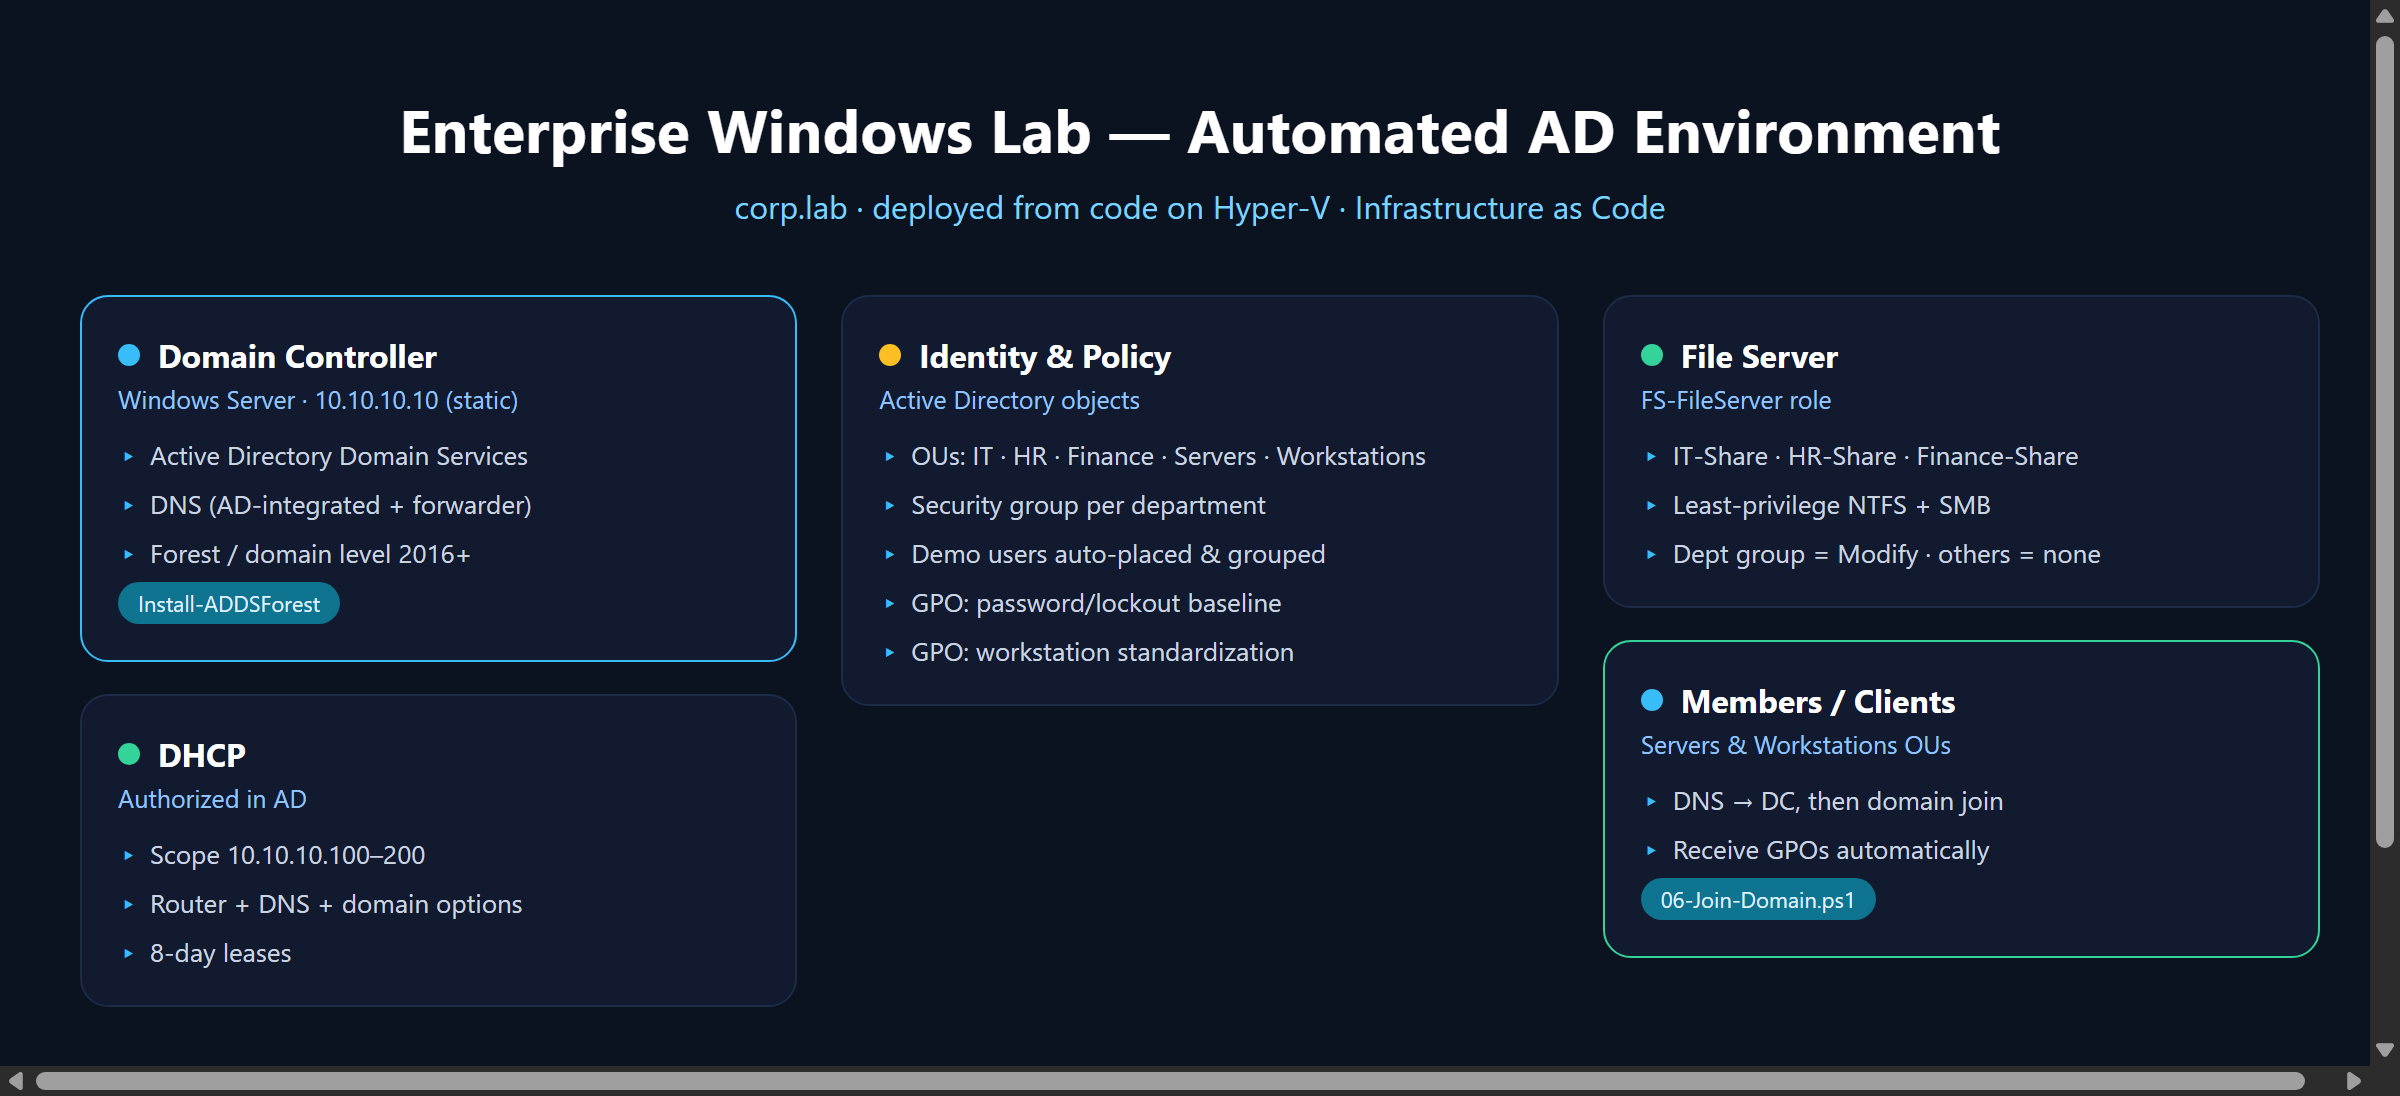
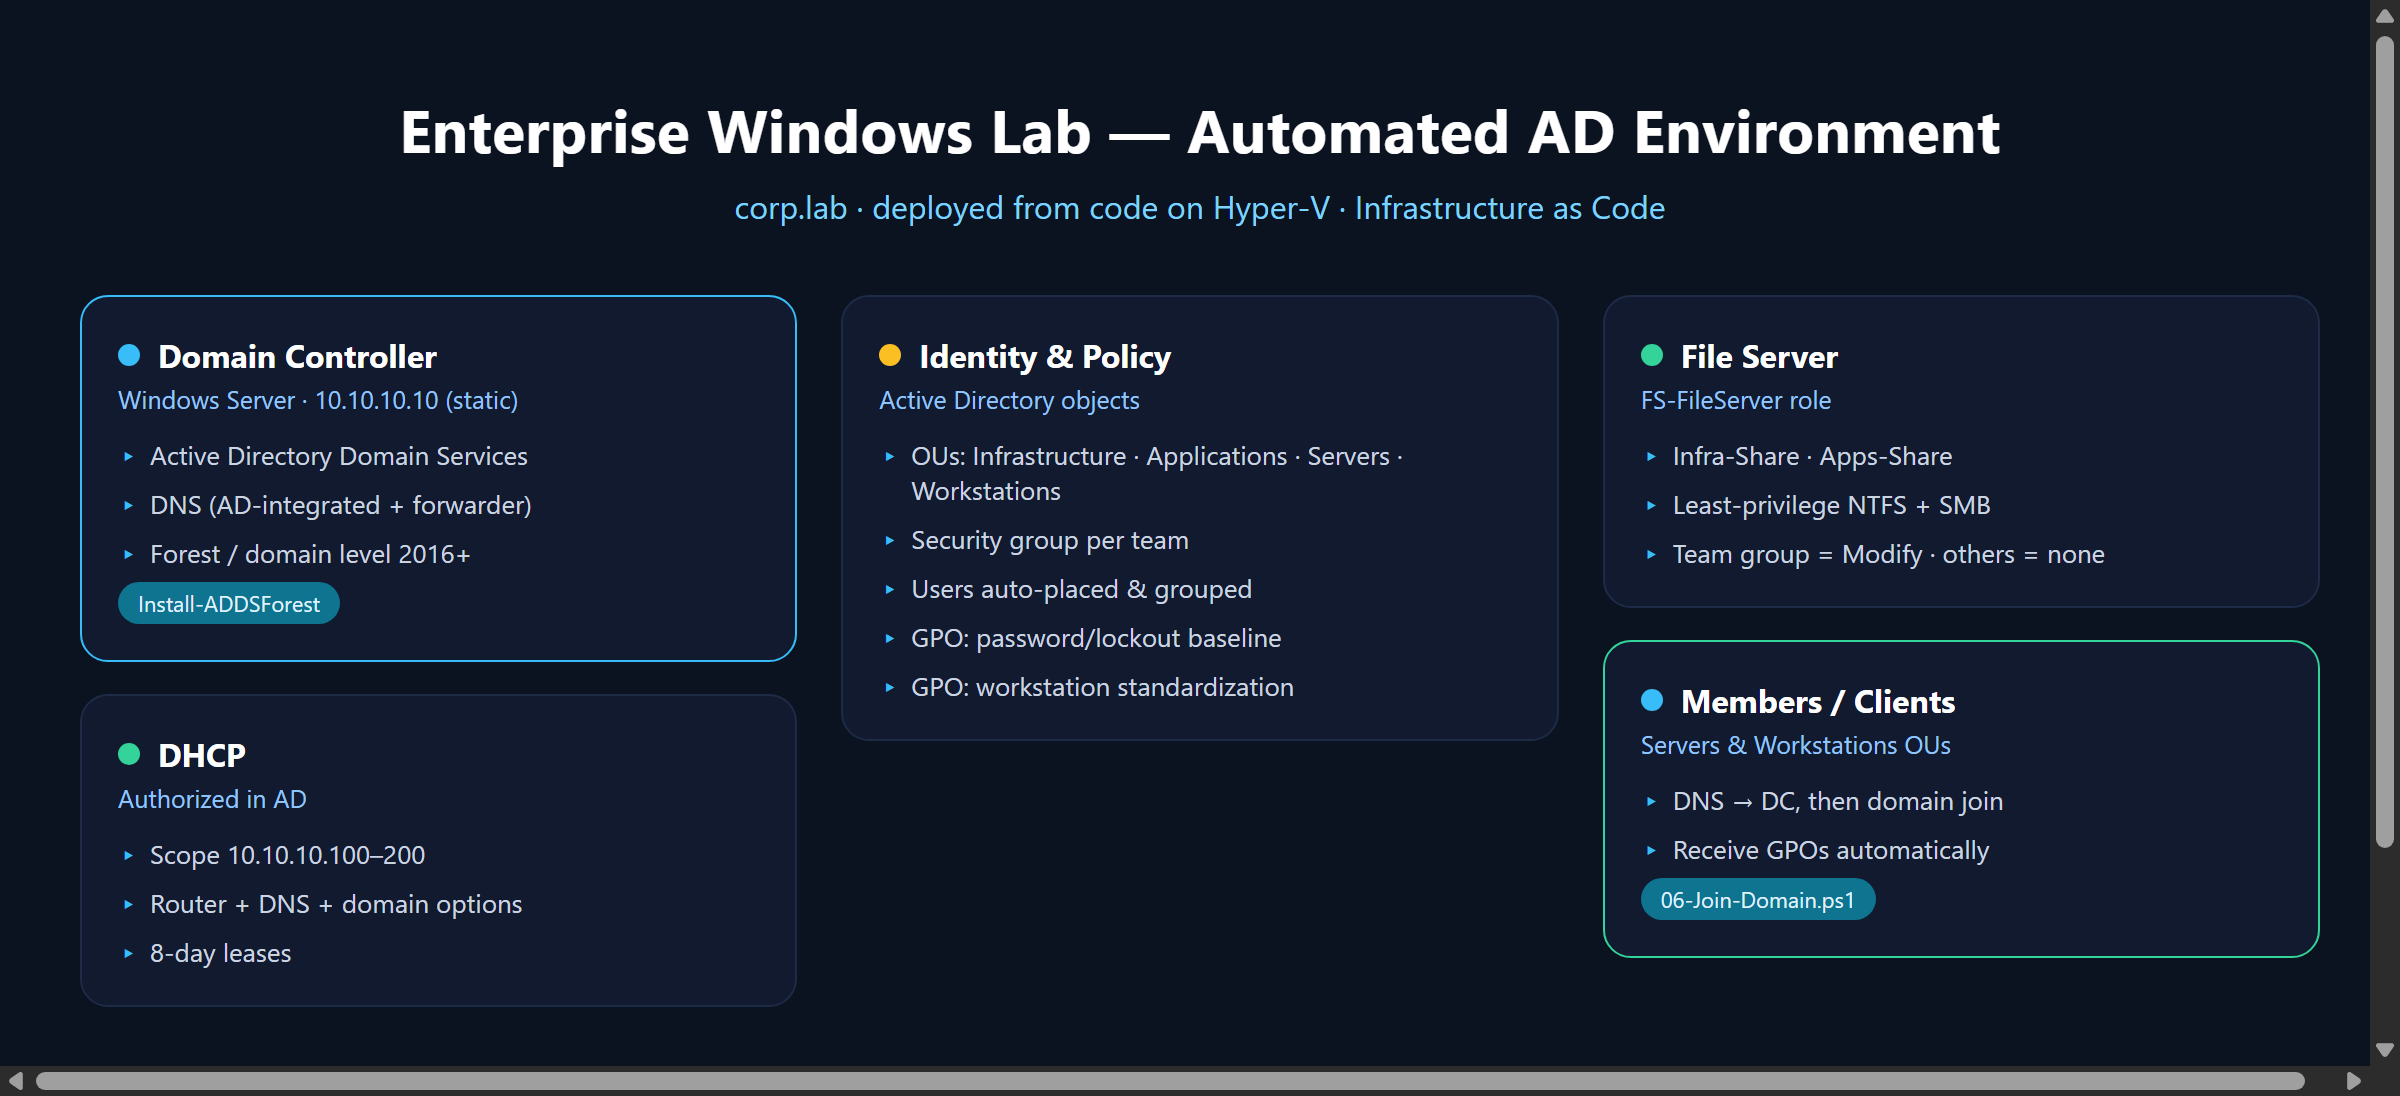
Customize lab for Infrastructure + Applications teams
Config-driven department groups; 7 real team members across two OUs
(Infrastructure managed by Saeed Almalki, Applications). Updated diagram,
README and file shares to match.

Changed region(s): [[0.375, 0.4033, 0.5938, 0.6515], [0.6875, 0.4964, 0.875, 0.5274], [0.6875, 0.4033, 0.875, 0.4343]]

diff --git a/docs/diagram.html b/docs/diagram.html
@@ -46,9 +46,9 @@
         <h3><span class="dot obj"></span> Identity &amp; Policy</h3>
         <div class="role">Active Directory objects</div>
         <ul>
-          <li>OUs: IT · HR · Finance · Servers · Workstations</li>
-          <li>Security group per department</li>
-          <li>Demo users auto-placed &amp; grouped</li>
+          <li>OUs: Infrastructure · Applications · Servers · Workstations</li>
+          <li>Security group per team</li>
+          <li>Users auto-placed &amp; grouped</li>
           <li>GPO: password/lockout baseline</li>
           <li>GPO: workstation standardization</li>
         </ul>
@@ -60,9 +60,9 @@
         <h3><span class="dot svc"></span> File Server</h3>
         <div class="role">FS-FileServer role</div>
         <ul>
-          <li>IT-Share · HR-Share · Finance-Share</li>
+          <li>Infra-Share · Apps-Share</li>
           <li>Least-privilege NTFS + SMB</li>
-          <li>Dept group = Modify · others = none</li>
+          <li>Team group = Modify · others = none</li>
         </ul>
       </div>
       <div class="card" style="border-color:#34d399;">

diff --git a/README.md b/README.md
@@ -25,10 +25,10 @@ reviewed in Git, and handed to a teammate.
 corp.lab  (new forest, functional level 2016+)
 ├── Domain Controller  →  AD DS + DNS (static 10.10.10.10)
 ├── DHCP               →  scope 10.10.10.100-200, router + DNS options
-├── OUs                →  IT · HR · Finance · Servers · Workstations
-├── Security groups    →  IT · HR · Finance  (+ demo users, auto-placed)
+├── OUs                →  Infrastructure · Applications · Servers · Workstations
+├── Security groups    →  Infrastructure · Applications  (users auto-placed)
 ├── Group Policy       →  password/lockout baseline + workstation standard
-└── File Server        →  per-department shares, least-privilege NTFS/SMB
+└── File Server        →  per-team shares, least-privilege NTFS/SMB
 ```
 
 ![Architecture](docs/architecture.png)
